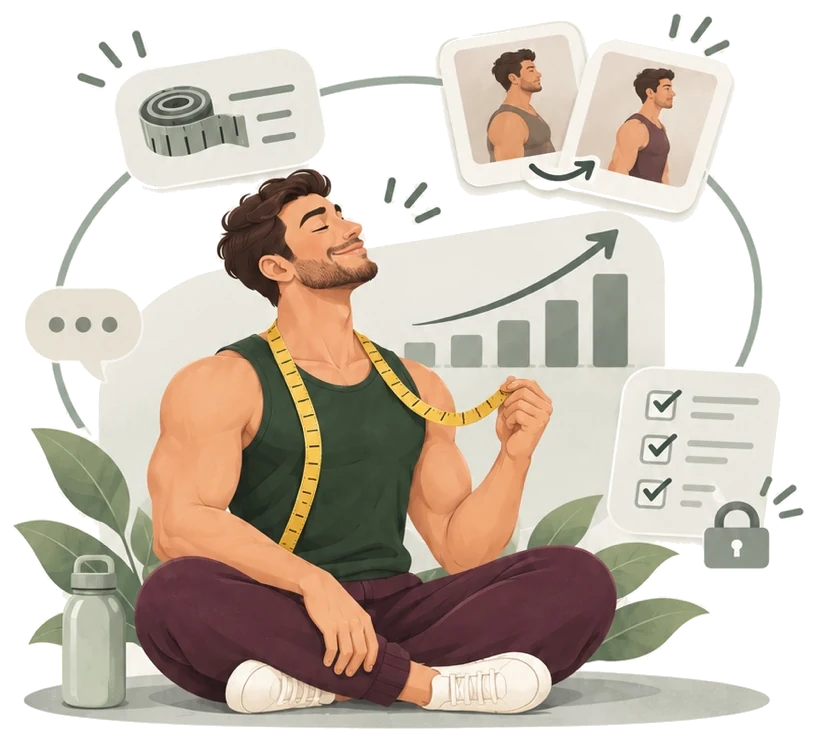
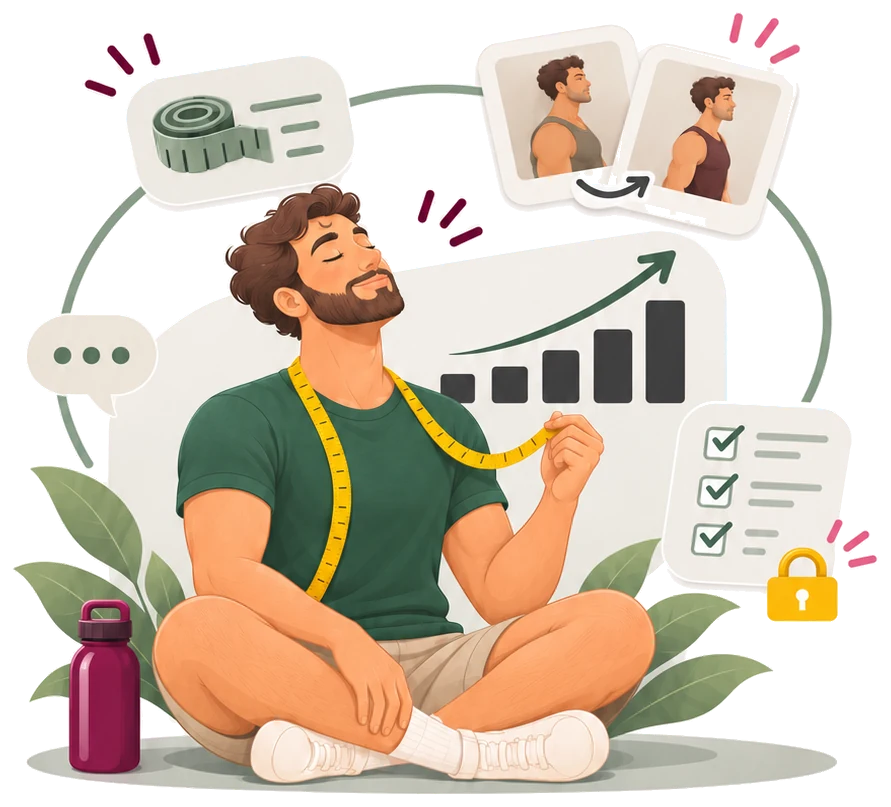
Nueva ilustración de Progreso en la bienvenida
Claude-Session: https://claude.ai/code/session_01R32yKYMmTUN3g8Ai4AcWpE

diff --git a/index.html b/index.html
@@ -2741,7 +2741,7 @@ function introVisto(){try{return localStorage.getItem('vuelve_intro')==='1'}catc
 function renderIntro(i=0,dest){
   const N=INTRO.length,x=INTRO[i],ult=i===N-1;
   $('#root').innerHTML=`<div class="intro${x.im==='progress'?' ip':''}"><div class="ihead"><div class="row between" style="align-items:center"><div class="logo">${LOGO}<div><b>VUELVE</b><small>A tu ritmo, hacia ti</small></div></div><button class="ilink" id="iskip">${ult?'':'Saltar'}</button></div></div><div class="introc${x.im?'':' noim'}">
-    <p class="eyebrow">${x.ey}</p><h1 class="h1" style="margin-top:8px">${x.t} <span>${x.s}</span></h1><p class="ilead">${x.d}</p>${x.im?`<img class="iimg" src="img/intro/${x.im}.webp?v=2" alt="">`:''}</div>
+    <p class="eyebrow">${x.ey}</p><h1 class="h1" style="margin-top:8px">${x.t} <span>${x.s}</span></h1><p class="ilead">${x.d}</p>${x.im?`<img class="iimg" src="img/intro/${x.im}.webp?v=3" alt="">`:''}</div>
     <div class="ifoot"><div class="idots">${INTRO.map((_,k)=>`<i class="${k===i?'on':''}" data-ig="${k}"></i>`).join('')}</div>
     <div class="ibtns">${ult?`<button class="btn block" id="ireg">Crear mi cuenta</button><button class="btn ghost block" id="ilog">Ya tengo cuenta</button>`
       :`${i?'<button class="btn ghost" id="iprev">Atrás</button>':''}<button class="btn" id="inext" style="flex:1">Siguiente</button>`}</div></div></div>`;
